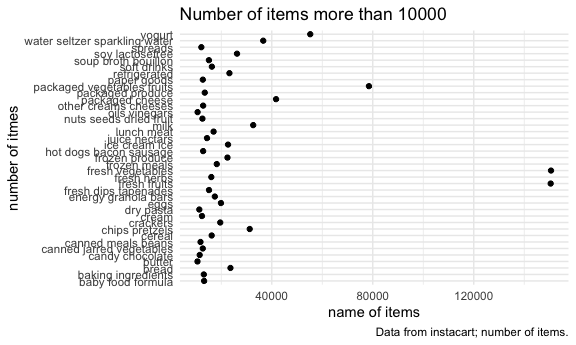
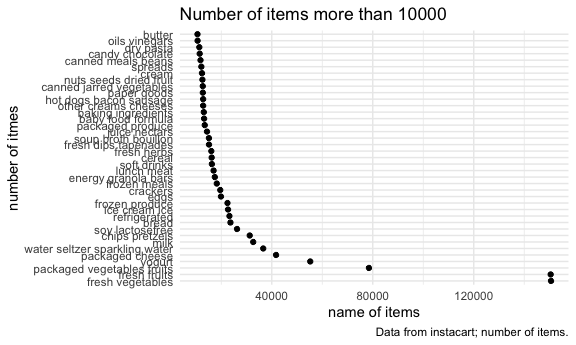
10.19 afternoon

diff --git a/P8105_hw3_wl2829.md b/P8105_hw3_wl2829.md
@@ -41,10 +41,25 @@ scale_fill_discrete = scale_fill_viridis_d
 
 ## Problem 1
 
+Load the data.
+
 ``` r
 library(p8105.datasets)
 data("instacart")
 ```
+
+The instacart dataset contains 1384617 rows and 15 variables. This data
+comes from shopping websites, showing the sales of different products in
+different regions. The detail of information of product is clearly
+showed by variables such as aisle, product\_name and product\_id. We can
+also know the user and when the order was set. For example, the
+Bulgarian Yogurt in dairy eggs department was bought by user 112108.
+This order was nine days after the previous order and was finished on
+the 4th day of the week.
+
+## knitr::kable()
+
+### How many aisles are there, and which aisles are the most items ordered from?
 
 ``` r
 instacart %>% 
@@ -59,8 +74,8 @@ instacart %>%
   distinct() %>% 
   count(aisle, name = "aisle_n") %>% 
   mutate(aisle_n = as.numeric(aisle_n)) %>% 
-  arrange(desc(aisle_n)) %>%
-  filter(aisle_n == max(aisle_n))
+  arrange(desc(aisle_n)) %>% ## rank the number of aisles
+  filter(aisle_n == max(aisle_n)) ## pick the biggest number
 ```
 
     ## # A tibble: 1 × 2
@@ -68,9 +83,9 @@ instacart %>%
     ##   <chr>              <dbl>
     ## 1 fresh vegetables  150609
 
-``` r
-## "Fresh vegetables" has the most items. The number of orders is 150609.
-```
+“Fresh vegetables” has the most items. The number of orders is 150609.
+
+### Make a plot that shows the number of items ordered in each aisle, limiting this to aisles with more than 10000 items ordered. Arrange aisles sensibly, and organize your plot so others can read it.
 
 ``` r
 plot_df = 
@@ -78,12 +93,13 @@ plot_df =
   distinct() %>% 
   count(aisle, name = "aisle_n") %>% 
   mutate(aisle_n = as.numeric(aisle_n)) %>% 
-  filter(aisle_n >= 10000) %>% 
+  filter(aisle_n >= 10000) %>% ## remove the data less than 10000
   arrange(desc(aisle_n)) %>% 
   mutate(
     aisle = factor(aisle),
     aisle = forcats::fct_reorder(aisle, sort(aisle_n))) %>% 
-  ggplot(aes(x = aisle, y = aisle_n)) +
+  ## control the factor
+  ggplot(aes(x = aisle, y = aisle_n)) + 
   geom_point() + 
   coord_flip() +
   labs(
@@ -91,8 +107,16 @@ plot_df =
     x = "number of itmes",
     y = "name of items",
     caption = "Data from instacart; number of items."
-  )
+  ) ## make the plot readable
+
+plot_df
 ```
+
+<img src="P8105_hw3_wl2829_files/figure-gfm/unnamed-chunk-3-1.png" width="90%" />
+We can see from the plot that fresh vegetables and fresh fruits are the
+most popular department in instacart.
+
+### Make a table showing the three most popular items in each of the aisles “baking ingredients”, “dog food care”, and “packaged vegetables fruits”. Include the number of times each item is ordered in your table.
 
 ``` r
 Bi_df = 
@@ -126,28 +150,30 @@ three_aisles_df =
   rbind(Bi_df, dfc_df, pvf_df)
 ```
 
-Make a table showing the mean hour of the day at which Pink Lady Apples
-and Coffee Ice Cream are ordered on each day of the week; format this
-table for human readers (i.e. produce a 2 x 7 table).
+### Make a table showing the mean hour of the day at which Pink Lady Apples and Coffee Ice Cream are ordered on each day of the week; format this table for human readers (i.e. produce a 2 x 7 table).
 
 ``` r
 mean_hour_df = 
   instacart %>% 
   filter(product_name %in% c("Coffee Ice Cream", "Pink Lady Apples")) %>% 
+  ## select the data
   group_by(product_name, order_dow) %>% 
   summarize(
-    mean_hour = mean(order_hour_of_day)
-  ) %>% 
+    mean_hour = mean(order_hour_of_day) 
+  ) %>% ## 
   pivot_wider(
     names_from = order_dow,
     values_from = mean_hour
-  ) %>% 
-  rename("Sun" = "0","Mon" = "1", "Tue" = "2", "Wed" = "3", "Thu" = "4", "Fri" = "5", "Sat" = "6")
+  ) %>% ## format the data to a 2 x 7 table
+  rename("Sun" = "0","Mon" = "1", "Tue" = "2", "Wed" = "3", "Thu" = "4", 
+         "Fri" = "5", "Sat" = "6") ## convert number to weekday name
 ```
 
     ## `summarise()` has grouped output by 'product_name'. You can override using the `.groups` argument.
 
 ## Problem 2
+
+Load the data
 
 ``` r
 library(p8105.datasets)
@@ -156,14 +182,17 @@ library(p8105.datasets)
 ``` r
 BRFSS_df = 
   brfss_smart2010 %>% 
-  ## need change the variables' name
   janitor::clean_names() %>% 
   rename(state = locationabbr, specific_location = locationdesc) %>% 
-  filter(topic == "Overall Health") %>% 
-  filter(response %in% c("Excellent", "Very good", "Good", "Fair", "Poor")) %>% 
+  ## change the variables' name
+  filter(topic == "Overall Health") %>% ## focus on the “Overall Health” topic
+  filter(response %in% c("Excellent", "Very good", "Good", "Fair", "Poor")) %>%
+  ## include only responses from “Excellent” to “Poor”
   mutate(response = factor(response), 
-         response = forcats::fct_relevel(response, c("Poor", "Fair", "Good", "Very good", "Excellent")))
+         response = forcats::fct_relevel(response, c("Poor", "Fair", "Good", "Very good", "Excellent"))) ## organize responses as a factor taking levels ordered from “Poor” to “Excellent”
 ```
+
+### In 2002, which states were observed at 7 or more locations? What about in 2010?
 
 ``` r
 BRFSS_df %>% 
@@ -231,24 +260,29 @@ two_panel_plot =
   BRFSS_df %>% 
   filter(year %in% c(2006, 2010)) %>% 
   filter(state == "NY") %>% 
-  ggplot(aes(x = specific_location, y = data_value)) +
-  geom_point() +
-  coord_flip() +
-  facet_grid(. ~ year)
+  ggplot(aes(x = data_value, fill = response)) +
+  geom_density(alpha = .5) +
+  facet_grid(. ~ year) 
 ```
 
 ## Problem 3
 
+### Load, tidy, and otherwise wrangle the data. Your final dataset should include all originally observed variables and values; have useful variable names; include a weekday vs weekend variable; and encode data with reasonable variable classes.
+
 ``` r
 acce_df = 
-  read_csv("./data/accel_data.csv") %>% 
+  read_csv("./data/accel_data.csv") %>% ## load the data
   pivot_longer(
     activity.1:activity.1440,
-    names_to = "number of activity",
+    names_to = "minute_of_activity",
     values_to = "activity"  
-  ) %>% 
+  ) %>% ## reduce the number of variables to make the data more clear
   janitor::clean_names() %>% 
-  mutate_at("number_of_activity", str_replace, "activity.", "")
+  mutate_at("minute_of_activity", str_replace, "activity.", "") %>% 
+  mutate(day_type = case_when(
+    day %in% c("Friday", "Monday", "Tuesday", "Wednesday", "Thursday") ~ "weekday",
+    day %in% c("Saturday", "Sunday") ~ "weekend"
+  )) 
 ```
 
     ## Rows: 35 Columns: 1443
@@ -261,3 +295,17 @@ acce_df =
     ## 
     ## ℹ Use `spec()` to retrieve the full column specification for this data.
     ## ℹ Specify the column types or set `show_col_types = FALSE` to quiet this message.
+
+### Traditional analyses of accelerometer data focus on the total activity over the day. Using your tidied dataset, aggregate accross minutes to create a total activity variable for each day, and create a table showing these totals. Are any trends apparent?
+
+``` r
+total_act_df = 
+  acce_df %>% 
+  group_by(day_id) %>% 
+  mutate(day_sum = sum(activity)) %>% 
+  select(day_id, day_type, day, day_sum) %>% 
+  distinct() %>% 
+  knitr::kable()
+```
+
+### Accelerometer data allows the inspection activity over the course of the day. Make a single-panel plot that shows the 24-hour activity time courses for each day and use color to indicate day of the week. Describe in words any patterns or conclusions you can make based on this graph.
